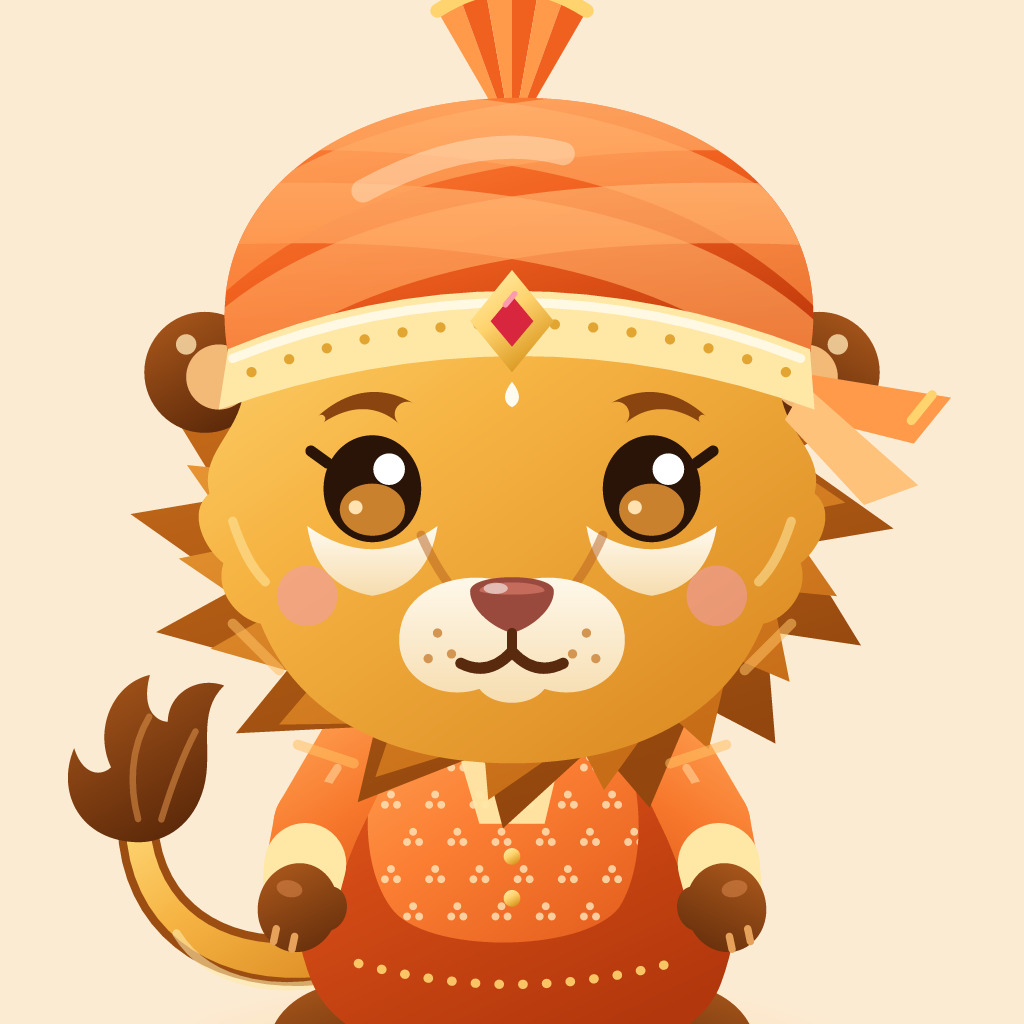
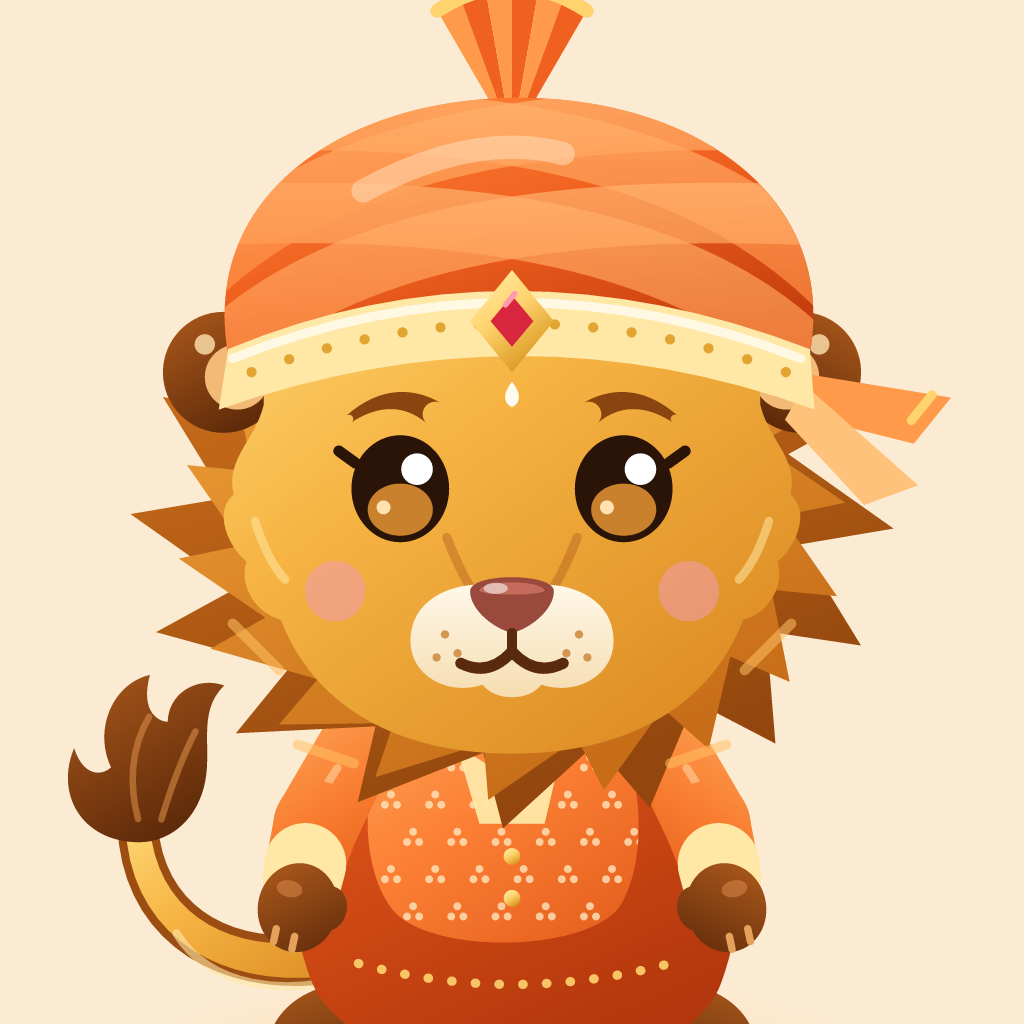
Tighten Kesar's face and let him really cheer
Features sit closer on a slightly smaller face, no under-eye patches.
Cheering, he squeezes his eyes shut on the crouch and landings and
opens into a big grin with raised brows and a blush at the top.

Changed region(s): [[0.125, 0.2812, 0.8125, 0.7188], [0.375, 0.7188, 0.625, 0.75], [0.7812, 0.3125, 0.875, 0.375]]

diff --git a/src/mascot/rig.ts b/src/mascot/rig.ts
@@ -165,6 +165,8 @@ export interface RigNode {
   when?: { eyes?: Eyes[]; mouth?: Mouth[]; prop?: Prop; effect?: Effect; front?: string };
   // Move exactly like another node (same pivot and track).
   follow?: string;
+  // Resting opacity when a clip doesn't animate it (0 = hidden until a clip fades it in).
+  opacity?: number;
 }
 
 // How far a part slides with his gaze, which reads as the head turning.
@@ -246,22 +248,23 @@ const ear = `
 
 // His own face, drawn in Pip's manner: a broad lion head with soft cheek
 // fluff, round amber bead eyes, tufted brows, a two-lobed muzzle.
-const faceCoat = `
+const faceCoat = `<g transform="translate(130 118) scale(.92 .96) translate(-130 -118)">
   <path d="M72 92C72 62 98 46 130 46C162 46 188 62 188 92C190 100 197 104 195 112C200 116 196 124 192 127C194 133 189 139 184 140C176 160 156 170 130 170C104 170 84 160 76 140C71 139 66 133 68 127C64 124 60 116 65 112C63 104 70 100 72 92Z" fill="url(#k-coat)"/>
-  ${stroke('M70 118C72 124 74 128 77 131M190 118C188 124 186 128 183 131', '#FFE6A0', 2, 'opacity=".55"')}`;
+  ${stroke('M70 118C72 124 74 128 77 131M190 118C188 124 186 128 183 131', '#FFE6A0', 2, 'opacity=".55"')}</g>`;
 
 // Light fur under the eyes, a lion's tear lines, the puffy whisker pads.
 const patches = `
-  <path d="M86 119Q100 129 114 119Q112 132 100 134Q88 132 86 119ZM146 119Q160 129 174 119Q172 132 160 134Q148 132 146 119Z" fill="url(#k-cream)"/>
-  ${stroke('M110.5 121Q114 129 118.5 134M149.5 121Q146 129 141.5 134', '#B5601E', 2, 'opacity=".5"')}
-  <path d="M130 132C124 128 108 130 106 141C104 151 114 157 123 154C126 158 134 158 137 154C146 157 156 151 154 141C152 130 136 128 130 132Z" fill="url(#k-cream)"/>
-  ${dots([[114, 142], [117, 146.5], [112, 147.5], [146, 142], [143, 146.5], [148, 147.5]], 1, '#D39552')}`;
+  ${stroke('M116 121.5Q118.5 128 121.5 133M144 121.5Q141.5 128 138.5 133', '#B5601E', 2, 'opacity=".45"')}
+  <g transform="translate(130 145) scale(.9) translate(-130 -145)">
+    <path d="M130 132C124 128 108 130 106 141C104 151 114 157 123 154C126 158 134 158 137 154C146 157 156 151 154 141C152 130 136 128 130 132Z" fill="url(#k-cream)"/>
+    ${dots([[114, 142], [117, 146.5], [112, 147.5], [146, 142], [143, 146.5], [148, 147.5]], 1, '#D39552')}
+  </g>`;
 
-const blush = `<g fill="#F09BB0" opacity=".55"><circle cx="86" cy="134" r="6.5"/><circle cx="174" cy="134" r="6.5"/></g>`;
-const blushHot = `<g fill="#F09BB0" opacity=".5"><circle cx="86" cy="134" r="8"/><circle cx="174" cy="134" r="8"/></g>`;
+const blush = `<g fill="#F09BB0" opacity=".55"><circle cx="92" cy="133" r="6.5"/><circle cx="168" cy="133" r="6.5"/></g>`;
+const blushHot = `<g fill="#F09BB0" opacity=".5"><circle cx="92" cy="133" r="8.5"/><circle cx="168" cy="133" r="8.5"/></g>`;
 
 // Tufted brows: thick at the inner end, tapering out.
-const browL = `<path d="${taper([107.5, 95], [102, 91], [95.5, 91], [89, 96], 5.4, 1.8)}" fill="${BROW}"/>`;
+const browL = `<path d="${taper([113.5, 95], [108, 91], [101.5, 91], [95, 96], 5.4, 1.8)}" fill="${BROW}"/>`;
 const browR = mirror(browL);
 
 // Round bead eyes with bright amber, highlight on the right, a lash flick.
@@ -275,9 +278,11 @@ const bead = (x: number, outer: number) => `
   </g>`;
 
 const happyEyes =
-  stroke('M90 115Q100 102 110 115M150 115Q160 102 170 115', EYE, 4.4) + stroke('M90 115l-3.4-2.2M170 115l3.4-2.2', EYE, 2.2);
+  stroke('M96 115Q106 102 116 115M144 115Q154 102 164 115', EYE, 4.4) + stroke('M96 115l-3.4-2.2M164 115l3.4-2.2', EYE, 2.2);
 const closedEyes =
-  stroke('M91 112Q100 119 109 112M151 112Q160 119 169 112', EYE, 4) + stroke('M91 112l-3.2 1.4M169 112l3.2 1.4', EYE, 2);
+  stroke('M97 112Q106 119 115 112M145 112Q154 119 163 112', EYE, 4) + stroke('M97 112l-3.2 1.4M163 112l3.2 1.4', EYE, 2);
+// Squeezed shut with glee: > <
+const squeezeEyes = stroke('M99 104.5L111 111L99 117.5M161 104.5L149 111L161 117.5', EYE, 4.4);
 
 // A broad, rosy lion nose and a Y-shaped mouth; the grin shows two little fangs.
 const nose = `
@@ -416,30 +421,31 @@ export const RIG: RigNode = {
           children: [
             { id: 'maneBack', svg: maneBack },
             { id: 'mane', svg: maneFront },
-            { id: 'earL', pivot: [70, 94], svg: ear },
-            { id: 'earR', pivot: [190, 94], svg: mirror(ear) },
+            { id: 'earL', pivot: [74, 94], svg: `<g transform="translate(4 0)">${ear}</g>` },
+            { id: 'earR', pivot: [186, 94], svg: mirror(`<g transform="translate(4 0)">${ear}</g>`) },
             { id: 'face', svg: faceCoat },
             {
               id: 'features',
               children: [
                 { id: 'patches', svg: patches },
                 { id: 'blush', svg: blush },
-                { id: 'blushHot', svg: blushHot, when: { effect: 'hearts' } },
-                { id: 'browL', pivot: [98, 93], svg: browL },
-                { id: 'browR', pivot: [162, 93], svg: browR },
+                { id: 'blushHot', svg: blushHot, opacity: 0 },
+                { id: 'browL', pivot: [104, 93], svg: browL },
+                { id: 'browR', pivot: [156, 93], svg: browR },
                 {
                   id: 'gaze',
                   when: { eyes: ['open'] },
                   children: [
-                    { id: 'eyeL', pivot: [100, 111], svg: bead(100, -1) },
-                    { id: 'eyeR', pivot: [160, 111], svg: bead(160, 1) },
+                    { id: 'eyeL', pivot: [106, 111], svg: bead(106, -1) },
+                    { id: 'eyeR', pivot: [154, 111], svg: bead(154, 1) },
                   ],
                 },
                 { id: 'eyesHappy', svg: happyEyes, when: { eyes: ['happy'] } },
+                { id: 'eyesSqueeze', svg: squeezeEyes, when: { eyes: ['happy'] }, opacity: 0 },
                 { id: 'eyesClosed', svg: closedEyes, when: { eyes: ['closed'] } },
                 { id: 'nose', svg: nose },
                 { id: 'mouthSmile', svg: mouthSmile, when: { mouth: ['smile'] } },
-                { id: 'mouthOpen', pivot: [130, 151], svg: mouthOpen, when: { mouth: ['open'] } },
+                { id: 'mouthOpen', pivot: [130, 148], svg: mouthOpen, when: { mouth: ['open'] } },
                 { id: 'mouthO', pivot: [130, 151], svg: mouthO, when: { mouth: ['o'] } },
                 { id: 'mouthWavy', svg: mouthWavy, when: { mouth: ['wavy'] } },
               ],
@@ -583,6 +589,8 @@ const rise = (i: number, dist = 26, drift = 6): Track => ({
   sy: shift([0.4, 1, 1, 0.75, 0.4, 0.4], i * 2),
 });
 
+const CHEER_AT = [0, 0.08, 0.15, 0.28, 0.39, 0.49, 0.59, 0.66, 1];
+
 // Pip's idle: a curious head tilt that holds, a glance, a weight shift.
 const IDLE_AT = [0, 0.2, 0.29, 0.39, 0.48, 0.57, 0.66, 0.76, 1];
 
@@ -652,8 +660,14 @@ export const CLIPS: Record<Pose, Clip> = {
       head: { at: [0, 0.12, 0.28, 0.39, 0.49, 0.59, 0.7, 1], rotate: [0, 0, 6, -4, -6, 0, 0, 0], y: [0, 0, -2, 3, 0, 2, 0, 0] },
       legL: { at: [0, 0.15, 0.28, 0.4, 0.49, 0.66, 1], rotate: [0, 0, 18, 0, -10, 0, 0], y: [0, 0, -3, 0, 0, 0, 0] },
       legR: { at: [0, 0.15, 0.28, 0.4, 0.49, 0.66, 1], rotate: [0, 0, -18, 0, 10, 0, 0], y: [0, 0, -3, 0, 0, 0, 0] },
-      browL: { at: [0, 0.15, 0.28, 0.66, 1], y: [0, 0, -3, -3, 0] },
-      browR: { at: [0, 0.15, 0.28, 0.66, 1], y: [0, 0, -3, -3, 0] },
+      // The face acts the jump: squeezed shut on the crouch and each landing,
+      // eyes and grin wide open at the top, brows up, cheeks flushing.
+      eyesHappy: { at: CHEER_AT, opacity: [1, 1, 0, 1, 0, 1, 0, 1, 1] },
+      eyesSqueeze: { at: CHEER_AT, opacity: [0, 0, 1, 0, 1, 0, 1, 0, 0] },
+      mouthOpen: { at: CHEER_AT, sx: [1, 1, 0.8, 1.16, 0.9, 1.12, 0.9, 1, 1], sy: [1, 1, 0.55, 1.5, 0.8, 1.38, 0.8, 1, 1] },
+      blushHot: { at: CHEER_AT, opacity: [0, 0, 0.5, 1, 0.7, 1, 0.7, 0.3, 0] },
+      browL: { at: CHEER_AT, y: [0, 0, 2, -6, -1, -5, 0, 0, 0], rotate: [0, 0, -4, 8, 0, 6, 0, 0, 0] },
+      browR: { at: CHEER_AT, y: [0, 0, 2, -6, -1, -5, 0, 0, 0], rotate: [0, 0, 4, -8, 0, -6, 0, 0, 0] },
       tail: { rotate: [-8, 12, -8, 12, -8, 12, -8] },
       tuft: { rotate: [10, -12, 10, -12, 10, -12, 10] },
       ties: { rotate: [-6, 8, -6, 8, -6, 8, -6, 8, -6, 8, -6] },

diff --git a/src/mascot/Kesar.tsx b/src/mascot/Kesar.tsx
@@ -63,6 +63,7 @@ function curve(
 }
 
 function transformsFor(node: RigNode, clip: Clip, d: Drivers, k: number) {
+  const base = node.opacity;
   if (node.follow) node = { ...findNode(node.follow)!, id: node.follow };
   const tr = clip.tracks[node.id] ?? {};
   const t: Record<string, unknown>[] = [];
@@ -86,7 +87,7 @@ function transformsFor(node: RigNode, clip: Clip, d: Drivers, k: number) {
     t.push({ scaleY: curve(d.breath, BREATH_SY) });
   }
   if (node.id === 'eyeL' || node.id === 'eyeR') t.push({ scaleY: d.blink });
-  return { transform: t, opacity: tr.opacity ? curve(d.clock, tr.opacity, at) : undefined };
+  return { transform: t, opacity: tr.opacity ? curve(d.clock, tr.opacity, at) : base };
 }
 
 function Node({ node, clip, d, size }: { node: RigNode; clip: Clip; d: Drivers; size: number }) {
